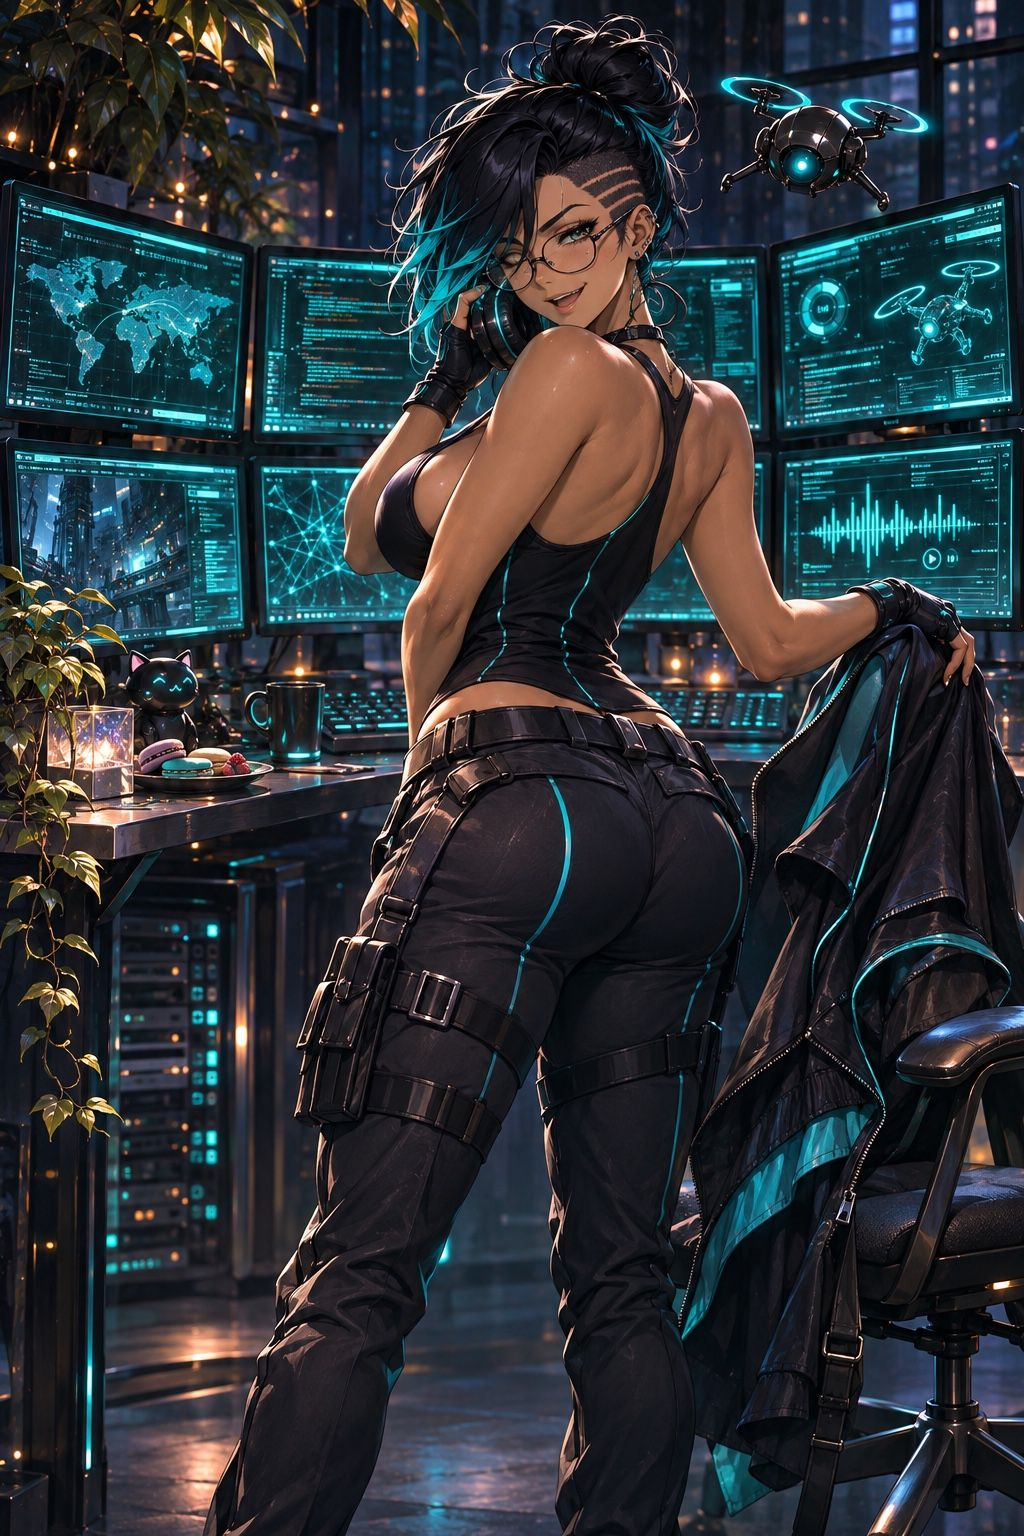
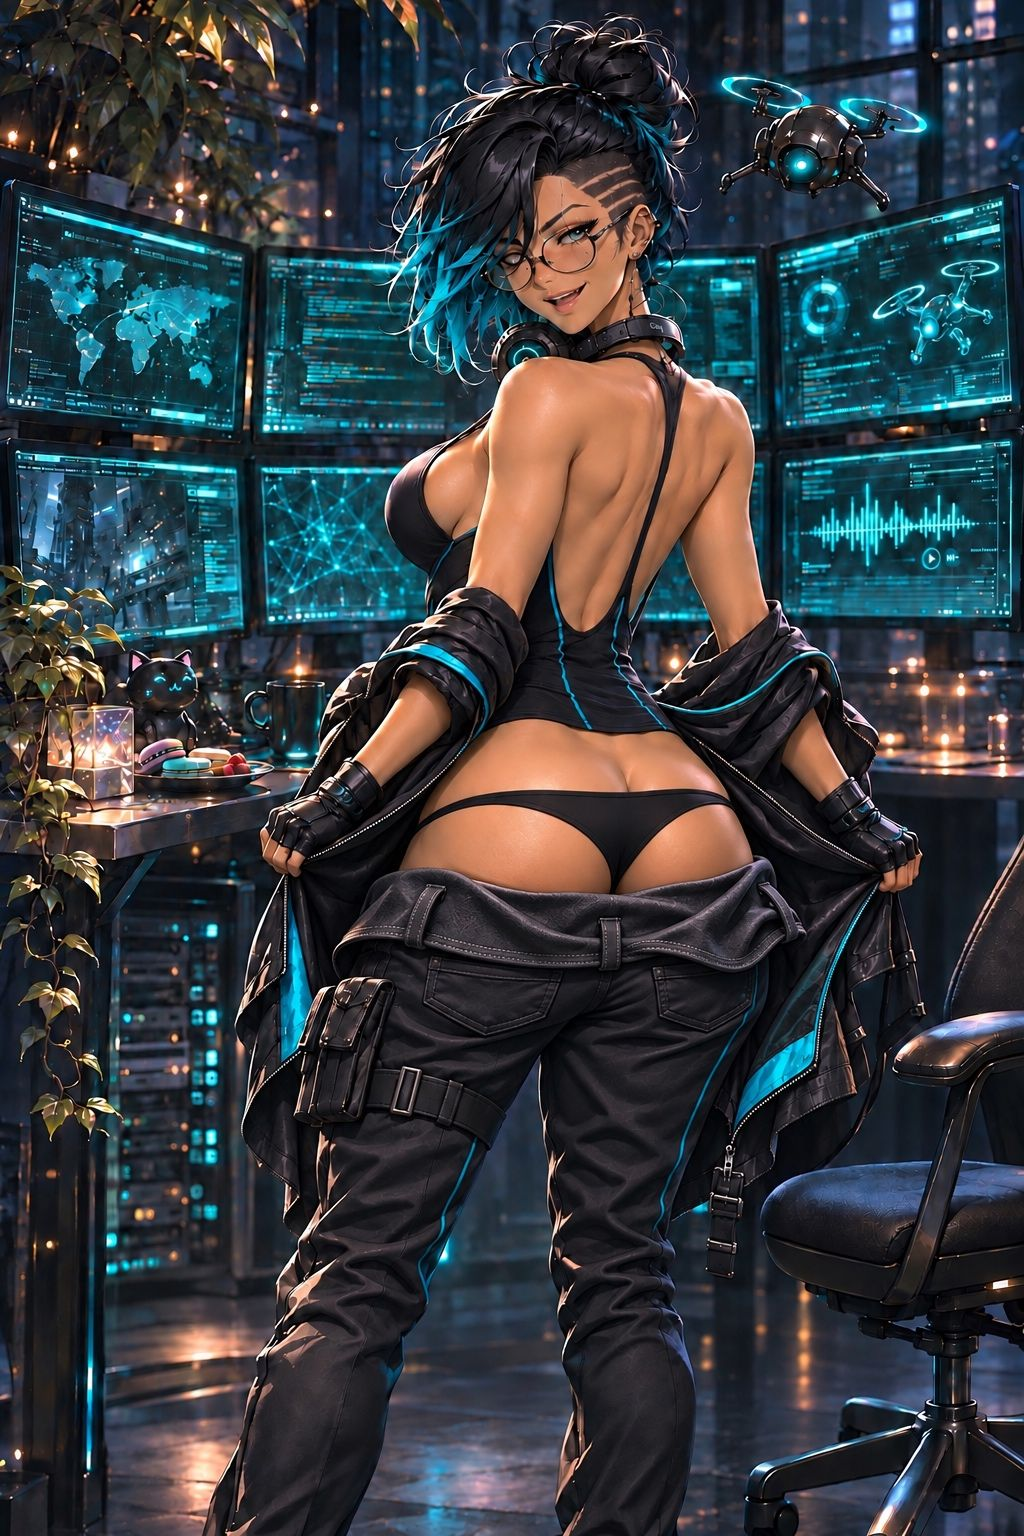
v0.40.3: replace 9 fixed high-tier images
Claude-Session: https://claude.ai/code/session_01YWSFXPWUoN1sfQZVxbL2Av

diff --git a/public/index.html b/public/index.html
@@ -837,7 +837,7 @@ Object.keys(STORY).forEach(function(id){
     SIDX[id].push(MIS.length);MIS.push(m);
   });
 });
-var VERSION='0.40.2';
+var VERSION='0.40.3';
 var PROG={c:{},s:{},b:{},end:{},g:{},n:{},pt:0,name:'',vol:1,all:false,bgm:true,bvol:0.6,bth:true,sil:true};
 try{var pj=JSON.parse(localStorage.getItem('s6prog')||'null');if(pj)for(var pk in pj)PROG[pk]=pj[pk];}catch(e){}
 function saveProg(){try{localStorage.setItem('s6prog',JSON.stringify(PROG));}catch(e){}}

diff --git a/docs/CHANGELOG.md b/docs/CHANGELOG.md
@@ -1,5 +1,8 @@
 # 변경 기록
 
+## v0.40.3 (2026-11-23)
+- 수정본 9장 교체: 로맨틱 닥 R01(doc_26) · 글리치 R04(glitch_20) · R10(glitch_26) · 미라주 R02(mirage_16) · R06(mirage_20), 스토리 r_S1-02_3_1 · r_S1-04_3_1 · r_S1-06_3_2, 서비스 svc_W-1_2.
+
 ## v0.40.2 (2026-11-23)
 - 스토리 · 시즈널 갤러리에서 고자극 추가 컷이 있는 미션은 화면이 스크롤되도록 수정(고정 화면 모드 해제).
 
